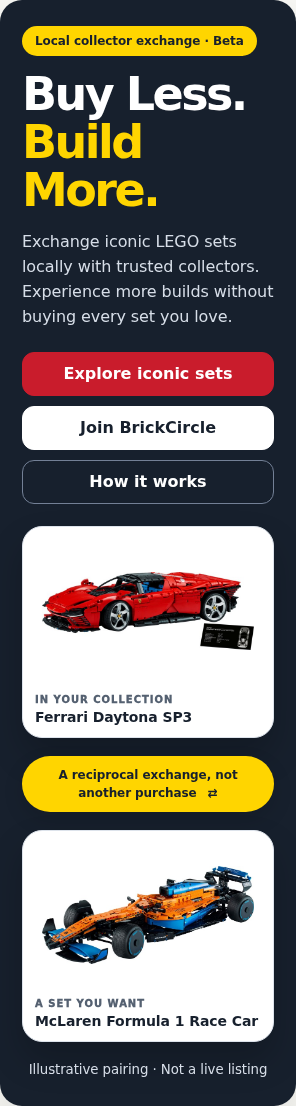
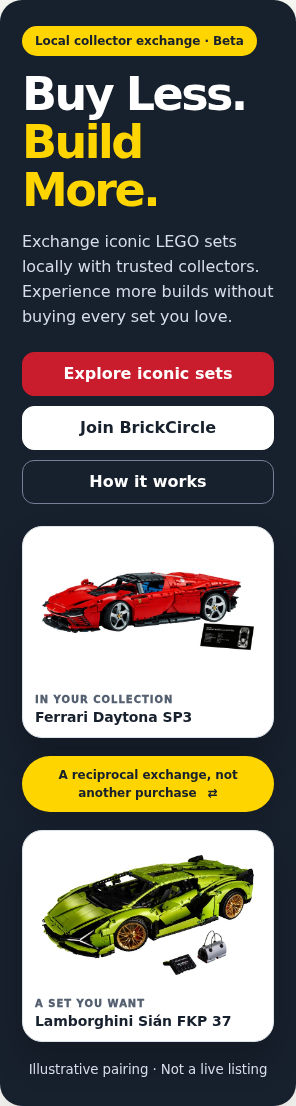
Replace landing McLaren demo with Lamborghini

Changed region(s): [[0.1216, 0.7685, 0.8818, 0.953], [0.1216, 0.9222, 0.5777, 0.953], [0.8209, 0.9222, 0.8514, 0.953]]

diff --git a/app-v3.js b/app-v3.js
@@ -930,15 +930,15 @@ async function renderHome(token){
 }
 // Verified catalogue examples, not listings, availability or value comparisons.
 const landingPairs={
-  hero:[['42143-1','Ferrari Daytona SP3'],['42141-1','McLaren Formula 1 Race Car']],
+  hero:[['42143-1','Ferrari Daytona SP3'],['42115-1','Lamborghini Sián FKP 37']],
   story:[['10283-1','NASA Space Shuttle Discovery'],['21309-1','NASA Apollo Saturn V']],
-  match:[['10214-1','Tower Bridge'],['10276-1','Colosseum']]
+  match:[['42143-1','Ferrari Daytona SP3'],['42115-1','Lamborghini Sián FKP 37']]
 };
 function landingPairImage(set,priority=false){return setImage(set[0],set[1],priority)}
 function landingHero(){const [own,want]=landingPairs.hero;return `<section class="bc-hero bc-landing-hero"><div class="bc-landing-hero-copy"><span class="bc-pill gold">Local collector exchange · Beta</span><h1>Buy Less. <em>Build More.</em></h1><p>Exchange iconic LEGO sets locally with trusted collectors. Experience more builds without buying every set you love.</p><div class="bc-hero-actions"><button class="bc-btn primary" data-action="browse">Explore iconic sets</button><button class="bc-btn" data-auth>Join BrickCircle</button><button class="bc-btn ghost" data-scroll="how-it-works">How it works</button></div></div><div class="bc-landing-showcase" aria-label="Illustrative exchange · Featured LEGO sets"><div class="bc-showcase-card own">${landingPairImage(own,true)}<span>IN YOUR COLLECTION</span><strong>${own[1]}</strong></div><div class="bc-showcase-link">A reciprocal exchange, not another purchase <b aria-hidden="true">⇄</b></div><div class="bc-showcase-card want">${landingPairImage(want,true)}<span>A SET YOU WANT</span><strong>${want[1]}</strong></div><small class="bc-pair-note">Illustrative pairing · Not a live listing</small></div></section>`}
 function landingExchangeStory(){const [own,want]=landingPairs.story;return `<section class="bc-landing-section bc-story" id="how-it-works" aria-labelledby="story-title"><div class="bc-landing-heading"><span>THE BRICKCIRCLE LOOP</span><h2 id="story-title">See the exchange in seconds</h2><p>Illustrative example: you own Discovery and want Saturn V. Another collector owns Saturn V and wants your Discovery.</p></div><div class="bc-story-flow"><article><div class="bc-story-image">${landingPairImage(own)}</div><small>YOU OWN</small><strong>${own[1]}</strong></article><i aria-hidden="true">→</i><article><div class="bc-story-image">${landingPairImage(want)}</div><small>YOU WANT · THEY OWN</small><strong>${want[1]}</strong></article><i aria-hidden="true">→</i><article class="overlap"><div class="bc-overlap-mark" aria-hidden="true">◎</div><small>THEY WANT YOUR DISCOVERY</small><strong>Both wishlists line up</strong></article><i aria-hidden="true">→</i><article class="matched"><div class="bc-match-seal" aria-hidden="true">✓</div><small>MUTUAL INTEREST</small><strong>Reciprocal Match</strong></article></div></section>`}
 function landingWorkflow(){return `<section class="bc-landing-section" aria-labelledby="landing-workflow-title"><div class="bc-landing-heading"><span>ONE CLEAR PATH</span><h2 id="landing-workflow-title">Own → Want → Match → Exchange</h2></div><div class="bc-landing-workflow"><article><b>01</b><span>OWN</span><h3>Add your LEGO sets</h3><p>Choose which sets you could exchange.</p></article><article><b>02</b><span>WANT</span><h3>Pick your next experience</h3><p>Save the sets you genuinely want to try.</p></article><article><b>03</b><span>MATCH</span><h3>Find a reciprocal collector</h3><p>BrickCircle reveals the mutual overlap.</p></article><article><b>04</b><span>EXCHANGE</span><h3>Meet, inspect, swap</h3><p>Enjoy the set temporarily, then return it.</p></article></div></section>`}
-function landingMatchExample(){const [own,want]=landingPairs.match;return `<section class="bc-example-match" aria-labelledby="example-match-title"><div class="bc-example-copy"><span class="bc-pill green">Illustrative example · Reciprocal Match</span><h2 id="example-match-title">Both collectors get a set they want.</h2><p>You own Tower Bridge and want Colosseum. The other collector owns Colosseum and wants your Tower Bridge. Both sides independently want the exchange.</p><div class="bc-example-trust"><span>📍 Local</span><span>🤝 In person</span><span>✓ Inspection-first</span></div></div><div class="bc-example-sets"><article>${landingPairImage(own)}<small>YOU OWN · THEY WANT</small><strong>${own[1]}</strong></article><div class="bc-example-swap" aria-hidden="true">⇄</div><article>${landingPairImage(want)}<small>THEY OWN · YOU WANT</small><strong>${want[1]}</strong></article></div></section>`}
+function landingMatchExample(){const [own,want]=landingPairs.match;return `<section class="bc-example-match" aria-labelledby="example-match-title"><div class="bc-example-copy"><span class="bc-pill green">Illustrative example · Reciprocal Match</span><h2 id="example-match-title">Both collectors get a set they want.</h2><p>You own Ferrari Daytona SP3 and want Lamborghini Sián FKP 37. The other collector owns Lamborghini Sián FKP 37 and wants your Ferrari Daytona SP3. Both sides independently want the exchange.</p><div class="bc-example-trust"><span>📍 Local</span><span>🤝 In person</span><span>✓ Inspection-first</span></div></div><div class="bc-example-sets"><article>${landingPairImage(own)}<small>YOU OWN · THEY WANT</small><strong>${own[1]}</strong></article><div class="bc-example-swap" aria-hidden="true">⇄</div><article>${landingPairImage(want)}<small>THEY OWN · YOU WANT</small><strong>${want[1]}</strong></article></div></section>`}
 function landingTrust(){return `<section class="bc-landing-section bc-trust" aria-labelledby="trust-title"><div class="bc-landing-heading"><span>EXCHANGE WITH CONFIDENCE</span><h2 id="trust-title">Simple, local and inspection-first</h2></div><div class="bc-trust-grid"><span>⌖<b>Local exchanges</b></span><span>🤝<b>Meet in person</b></span><span>✓<b>Inspect before handoff</b></span><span>↩<b>Temporary exchange</b></span><span>□<b>No shipping required</b></span><span>◉<b>You choose what’s available</b></span></div></section>`}
 function landingFounderStory(){return `<section class="bc-founder-story" id="why-i-built-brickcircle" aria-labelledby="bc-founder-title"><div class="bc-founder-inner"><span class="bc-founder-kicker">A NOTE FROM THE FOUNDER</span><h2 id="bc-founder-title">Why I Built BrickCircle</h2><p class="bc-founder-byline">By Easwar Kumar | Founder, BrickCircle.club</p><div class="bc-founder-layout"><div class="bc-founder-photo"><img src="/assets/founder-easwar-kumar.jpg.jpeg" alt="Easwar Kumar with assembled LEGO Ferrari, McLaren and Saturn V models" width="1086" height="1448" loading="lazy" onerror="this.hidden=true;this.nextElementSibling.hidden=false"><p hidden>Founder photo is unavailable.</p></div><div class="bc-founder-prose"><p>My fascination with LEGO goes beyond collecting bricks. I've always been drawn to the ingenuity behind complex builds — from intricate Technic supercars and Formula 1 machines to spacecraft and engineering marvels.</p><p>Over time, one thought kept coming back to me: <strong>Why should the joy of building be limited to the sets we can afford to own?</strong></p><p>A beautiful LEGO creation often spends much of its life sitting on a shelf after being built. Meanwhile, another enthusiast somewhere nearby may be dreaming of building that very set.</p><p>What if we could connect these two people?</p><p>That simple thought inspired BrickCircle — a community where adult LEGO enthusiasts can meet, exchange sets, discover new builds and share their passion for bricks.</p><p>I believe the real magic of LEGO lies in the experience of building, the engineering we discover and the connections we make along the way.</p><p class="bc-founder-motto"><strong>Buy Less. Build More.</strong></p><p class="bc-founder-signoff">— Easwar Kumar</p></div></div></div></section>`}
 function landingFinalCta(){return `<section class="bc-landing-final"><span>BUY LESS · BUILD MORE</span><h2>Your next great build may already belong to someone nearby.</h2><button class="bc-btn gold" data-auth>Join BrickCircle beta</button></section>`}

diff --git a/tests/isolated/landing-pairings.spec.ts b/tests/isolated/landing-pairings.spec.ts
@@ -6,7 +6,8 @@ import path from 'node:path';
 const mock=fs.readFileSync(path.resolve('tests/isolated/fixtures/supabase-browser-mock.js'),'utf8');
 const liveImages=process.env.BC_LANDING_LIVE_IMAGES==='1';
 const evidence=process.env.BC_LANDING_QA_DIR;
-const ids=['42143-1','42141-1','10283-1','21309-1','10214-1','10276-1'];
+const carPair=['42143-1','42115-1'];
+const ids=[...carPair,'10283-1','21309-1',...carPair];
 
 test('founder photo failure preserves the letter and join journey',async({page})=>{
   await page.setViewportSize({width:390,height:844});
@@ -42,9 +43,12 @@ for(const width of [320,360,390,430,768,1440]){
       await page.goto('/?isolated=signed-out#home');
       await expect(page.locator('.bc-showcase-card')).toHaveCount(2);
       expect(await page.locator('img[data-set-image]').evaluateAll(images=>images.map(image=>(image as HTMLElement).dataset.setImage))).toEqual(ids);
+      expect(await page.locator('.bc-landing-hero img[data-set-image]').evaluateAll(images=>images.map(image=>(image as HTMLElement).dataset.setImage))).toEqual(carPair);
+      expect(await page.locator('.bc-example-match img[data-set-image]').evaluateAll(images=>images.map(image=>(image as HTMLElement).dataset.setImage))).toEqual(carPair);
+      await expect(page.locator('.bc-landing-hero')).toContainText('Lamborghini Sián FKP 37');
       expect(await page.locator('.bc-landing-showcase').evaluate(el=>Array.from(el.children).slice(0,3).map(child=>child.className))).toEqual(['bc-showcase-card own','bc-showcase-link','bc-showcase-card want']);
       await expect(page.locator('.bc-story')).toContainText('Another collector owns Saturn V and wants your Discovery');
-      await expect(page.locator('.bc-example-match')).toContainText('The other collector owns Colosseum and wants your Tower Bridge');
+      await expect(page.locator('.bc-example-match')).toContainText('The other collector owns Lamborghini Sián FKP 37 and wants your Ferrari Daytona SP3');
       const founder=page.locator('#why-i-built-brickcircle');
       await expect(founder).toHaveCount(1);
       await expect(founder.getByRole('heading',{name:'Why I Built BrickCircle',exact:true})).toBeVisible();

diff --git a/qa/landing-pairings/README.md b/qa/landing-pairings/README.md
@@ -8,15 +8,15 @@
 
 The signed-out landing page now has normal-flow Own → separator → Want DOM order, unrotated cards, auto-height layout and an entirely separate yellow separator. Legacy mobile percentage widths and fixed showcase heights are removed. Images retain `object-fit: contain`, full captions and descriptive alt text. The reciprocal-example heading is explicitly white on its dark panel.
 
-Existing `tests/isolated/fixtures/curated-catalogue.json` verifies these six IDs:
+The landing regression verifies the exact image IDs and labels in the hero and reciprocal example, alongside the unchanged space-shuttle exchange story:
 
 | Placement | Own | Want |
 | --- | --- | --- |
-| Hero | Ferrari Daytona SP3 `42143-1` | McLaren Formula 1 Race Car `42141-1` |
+| Hero | Ferrari Daytona SP3 `42143-1` | Lamborghini Sián FKP 37 `42115-1` |
 | Exchange story | NASA Space Shuttle Discovery `10283-1` | NASA Apollo Saturn V `21309-1` |
-| Reciprocal example | Tower Bridge `10214-1` | Colosseum `10276-1` |
+| Reciprocal example | Ferrari Daytona SP3 `42143-1` | Lamborghini Sián FKP 37 `42115-1` |
 
-The catalogue labels McLaren `McLaren Formula 1 Team 2022 (First Edition)`; the landing uses its familiar product name. Tower Bridge was selected instead of Taj Mahal because it already exists in the curated catalogue. All six actual Brickset images loaded during the focused browser run; no substituted image fixtures or synthetic placeholders were used for this evidence. Examples are explicitly illustrative, with both collectors' ownership and wishlist interests stated. No availability, price or equal-value claim is made. Auth, messaging, admin and camera implementations are unchanged.
+The hero and reciprocal example reuse the Ferrari Daytona SP3 and Lamborghini Sián FKP 37 images already available through the catalogue's Brickset image source and existing renderer; the fetched source images were visually checked against the set names. No downloaded or newly sourced illustration assets were added. Genuine McLaren catalogue entries remain unchanged. All six rendered image elements loaded during the focused browser run; no substituted image fixtures or synthetic placeholders were used for this evidence. Examples are explicitly illustrative, with both collectors' ownership and wishlist interests stated. No availability, price or equal-value claim is made. Auth, messaging, admin and camera implementations are unchanged.
 
 ## Initial failures and resolution
 
@@ -27,9 +27,9 @@ The catalogue labels McLaren `McLaren Formula 1 Team 2022 (First Edition)`; the 
 
 ## Final focused matrix
 
-Chromium, widths **320, 360, 390, 768, 1440 CSS px**, height 900px. Each width tested at normal size and with **every computed font size in `.bc-main` doubled**, including pixel-based theme overrides. This is text enlargement/reflow testing, not browser zoom or mobile-device hardware testing.
+Chromium, widths **320, 360, 390, 430, 768, 1440 CSS px**, height 900px. Each width tested at normal size and with **every computed font size in `.bc-main` doubled**, including pixel-based theme overrides. This is text enlargement/reflow testing, not browser zoom or mobile-device hardware testing.
 
-Assertions cover six loaded images (`naturalWidth > 100`), `contain`, distinct IDs, DOM order, both collectors' mutual interests, a centered static separator with at least 16px clear space above/below (measured 18px), no rotation, no document horizontal overflow, no internal clipping in the hero/cards/separator, and no page JavaScript errors. JSON files record each matrix result.
+Assertions cover six loaded image elements (`naturalWidth > 100`), `contain`, expected set IDs and exact hero/demo pairings, DOM order, both collectors' mutual interests, a centered static separator with at least 16px clear space above/below (measured 18px), no rotation, no document horizontal overflow, no internal clipping in the hero/cards/separator, and no page JavaScript errors. JSON files record each matrix result.
 
 ```sh
 BC_EXTERNAL_TEST_SERVER=1 BC_ISOLATED_PORT=4187 \
@@ -54,12 +54,14 @@ The server is the existing `scripts/serve-isolated.mjs` on a dedicated port. Sup
 
 Follow-up validation: the three affected test files passed **18/18 Chromium tests**, without retries, on port 4187 after the test-only corrections. Typecheck and `git diff --check` also passed. Hosted CI validates the updated head independently.
 
-The existing landing specs now also explicitly assert Saturn V/Discovery mutual interest and that the other collector wants Discovery. A focused **Chromium + Firefox + WebKit** run of `phase-2d-guided-home`, `phase-2e-landing` and `landing-pairings`, with actual images enabled and `--retries=0`, completed: **69/69 passed (23 per browser, 4.8 minutes)**. This includes 30 actual-image/layout/a11y matrix cases (10 per browser). No full local-suite rerun, runtime changes or PNG changes were made for these test corrections.
+The existing landing specs also explicitly assert Saturn V/Discovery mutual interest and that the other collector wants Discovery. An earlier focused **Chromium + Firefox + WebKit** run of `phase-2d-guided-home`, `phase-2e-landing` and `landing-pairings`, with actual images enabled and `--retries=0`, completed: **69/69 passed (23 per browser, 4.8 minutes)**. This includes 30 actual-image/layout/a11y matrix cases (10 per browser).
 
-Tracked PNGs include full landing pages and hero crops at all five widths, normal and enlarged text. Fixed bottom navigation is hidden **only during screenshots** so it does not obscure stitched page/element evidence. Normal navigation remains visible during assertions and axe checks. Browser-preview integration was unavailable (no connected desktop); screenshots were inspected directly as image files.
+Issue 156 follow-up: the Chromium `landing-pairings` run with `BC_LANDING_LIVE_IMAGES=1` completed **13/13 passed**, including all six viewports with real Brickset images. The exact Ferrari/Lamborghini IDs were asserted independently in the hero and reciprocal example; the JSON and screenshots above were refreshed from that run.
+
+Tracked PNGs include full landing pages and hero crops at all six widths, normal and enlarged text. Fixed bottom navigation is hidden **only during screenshots** so it does not obscure stitched page/element evidence. Normal navigation remains visible during assertions and axe checks. Browser-preview integration was unavailable (no connected desktop); screenshots were inspected directly as image files.
 
 - [Desktop hero](landing-1440-hero.png) · [Desktop page](landing-1440.png)
-- [320px hero](landing-320-hero.png) · [320px page](landing-320.png)
+- [320px hero](landing-320-hero.png) · [320px page](landing-320.png) · [430px hero](landing-430-hero.png) · [430px page](landing-430.png)
 - [320px doubled-text hero](landing-320-text-200-hero.png)
 - [360px page](landing-360.png) · [390px page](landing-390.png) · [768px page](landing-768.png)
 
